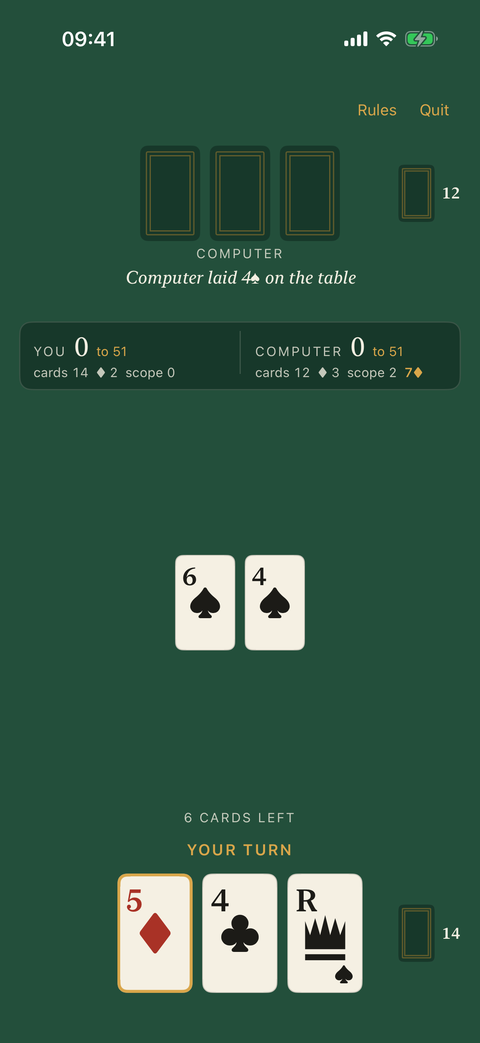
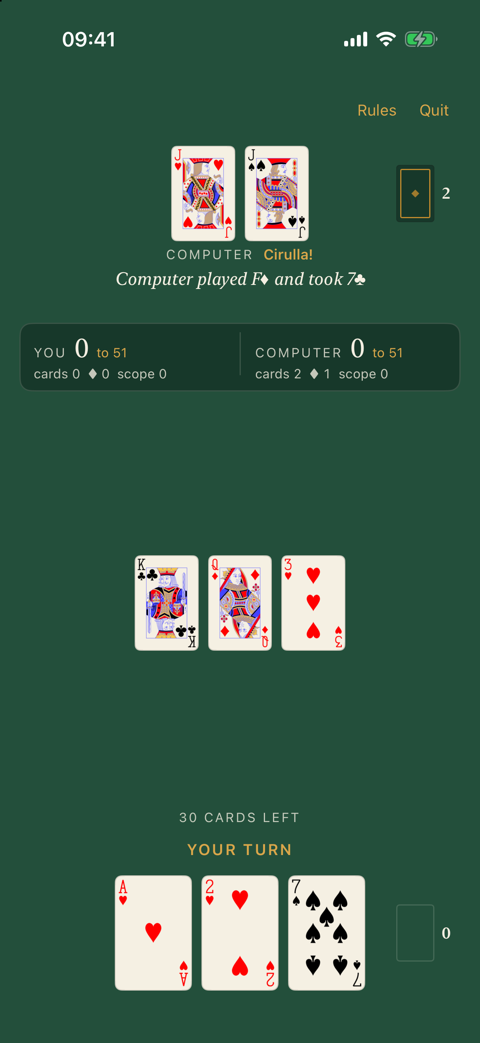
Cirulla: new screenshots and copy for the decks, settings and Italian
Classic (Kennard, CC0) cards throughout; Settings and an Italian table
join the strip, the scopa shot goes. Copy covers the two decks, house
rules, swipe to play, 31/51/101 matches and the Italian translation;
results recounted.

diff --git a/work/cirulla/index.html b/work/cirulla/index.html
@@ -4,7 +4,7 @@
 <meta charset="utf-8">
 <meta name="viewport" content="width=device-width, initial-scale=1">
 <title>Cirulla · Filippo Lamanna</title>
-<meta name="description" content="Cirulla, the Ligurian card game, for iPhone: the regional rules as they are really played, three computer opponents, and 251 tests on the rules engine.">
+<meta name="description" content="Cirulla, the Ligurian card game, for iPhone: the regional rules as they are really played, three computer opponents, in English and Italian, and 336 automated tests.">
 <meta property="og:title" content="Cirulla · Filippo Lamanna">
 <meta property="og:description" content="The Ligurian card game of fifteen, against the computer.">
 <meta property="og:image" content="https://filippolamanna.github.io/assets/img/og.png">
@@ -55,6 +55,7 @@
     <div class="body">
       <p>Cirulla is a Ligurian card game in the Scopa family: you capture table cards that match your card or add up to 15. There are few good ways to play it on a phone, and card apps often get the regional rules wrong.</p>
       <p>This iPhone app plays a full two-player match against the computer at three difficulty levels, following the rules as they are played in Liguria. It keeps the traditional secret declarations (buona and cirulla), shows a full score breakdown after each hand, and saves automatically so you can pick up later.</p>
+      <p>It is in English and Italian. You choose the cards at first start, Ligurian or Classic, and can switch at any time, even mid-game. Settings also hold the four house rules, capture hints, haptics, match length and a choice of two app icons.</p>
     </div>
   </section>
 
@@ -62,12 +63,14 @@
     <h2 class="mono">02 · HOW IT WORKS</h2>
     <div class="body">
       <ul>
-        <li>The game engine is a separate Swift package with no user interface. It encodes every rule: captures by equal value, by sum or by sum to 15, the Ace sweep, the wild seven of hearts (the matta), the dealer's opening bonus and all end-of-hand scoring including primiera.</li>
+        <li>The game engine is a separate Swift package with no user interface. It encodes every rule: captures by equal value, by sum or by sum to 15, the Ace sweep, the seven of hearts (the matta), which takes its value only when you declare with it, the dealer's opening bonus and all end-of-hand scoring including primiera.</li>
         <li>Every match comes from a seed, so any game can be replayed exactly from its seed and list of moves. That made rule bugs reproducible.</li>
         <li>Easy plays randomly but prefers captures. Medium looks one move ahead and weighs scopa chances, the seven of diamonds, diamonds, primiera and the risk of leaving a table the opponent can sweep.</li>
         <li>Hard uses Monte Carlo search: it deals the unseen cards at random many times, plays each option to the end of the hand, and picks the move with the best average result. It only sees what a real player would see.</li>
-        <li>Declarations are never prompted: you triple-tap the table (right half for buona, left for cirulla), the way a real player speaks up. A wrong call gets a small shake and no penalty.</li>
-        <li>Match length (21, 31 or 51 points) was chosen from measured hand scores: a median hand scores 7 points, so 21 lets one big hand decide a match.</li>
+        <li>Declarations are never prompted: you triple-tap the table (right half for buona, left for cirulla), the way a real player speaks up. A wrong call gets a small shake and no penalty. A card is played with a tap or by swiping it up.</li>
+        <li>Four Ligurian house rules are on unless you switch them off: cappotto (all ten diamonds wins the match), scciupon de fotta (a scopa with the last card of the hand does not count), a monte (two or more Aces dealt to the table void the deal) and the dealer's four of a kind.</li>
+        <li>Matches run to the traditional 31, 51 or 101 points.</li>
+        <li>Every word on screen and every spoken VoiceOver line is in English and Italian. A test fails if any text in the app is missing its Italian.</li>
       </ul>
     </div>
   </section>
@@ -77,10 +80,12 @@
     <div class="body">
       <div class="shots shots-strip">
         <figure class="shot"><img src="/assets/img/cirulla/01-home.png" alt="Cirulla home screen with Continue and the three difficulty levels" width="480" height="1043" loading="lazy"><figcaption class="mono">Home</figcaption></figure>
-        <figure class="shot"><img src="/assets/img/cirulla/02-table.png" alt="The table mid-hand, with your three cards and the computer's move described" width="480" height="1043" loading="lazy"><figcaption class="mono">Your turn</figcaption></figure>
-        <figure class="shot"><img src="/assets/img/cirulla/03-scopa.png" alt="The computer sweeps the table: a scopa" width="480" height="1043" loading="lazy"><figcaption class="mono">Scopa</figcaption></figure>
-        <figure class="shot"><img src="/assets/img/cirulla/05-hand-result.png" alt="The end-of-hand score breakdown, category by category" width="480" height="1043" loading="lazy"><figcaption class="mono">Hand over</figcaption></figure>
+        <figure class="shot"><img src="/assets/img/cirulla/02-table.png" alt="The table with Classic cards: the computer has declared a cirulla and taken a card, and it is your turn" width="480" height="1043" loading="lazy"><figcaption class="mono">Your turn</figcaption></figure>
+        <figure class="shot"><img src="/assets/img/cirulla/03-hand-result.png" alt="The end-of-hand score breakdown, category by category" width="480" height="1043" loading="lazy"><figcaption class="mono">Hand over</figcaption></figure>
+        <figure class="shot"><img src="/assets/img/cirulla/04-settings.png" alt="Settings: the Ligurian or Classic cards, the Diamond or Cards app icon, capture hints and haptics" width="480" height="1043" loading="lazy"><figcaption class="mono">Settings</figcaption></figure>
+        <figure class="shot"><img src="/assets/img/cirulla/05-italian.png" alt="The table in Italian: the computer has declared a buona and the turn line reads Tocca a te" width="480" height="1043" loading="lazy"><figcaption class="mono">In Italian</figcaption></figure>
       </div>
+      <p class="shots-credit mono">Classic cards by Adrian Kennard, CC0. The Cards app icon in Settings uses Abjiklam's Chkobba cards, CC BY-SA 4.0.</p>
     </div>
   </section>
 
@@ -88,10 +93,10 @@
     <h2 class="mono">04 · RESULTS</h2>
     <div class="body">
       <div class="stats">
-        <div class="stat"><b>251</b><span>automated tests on the rules engine, because for a traditional game the rules are the product</span></div>
+        <div class="stat"><b>336</b><span>automated tests on the game engine and its packages, because for a traditional game the rules are the product</span></div>
         <div class="stat"><b>3</b><span>AI levels, each checked by thousands of self-played matches to be clearly stronger than the one below</span></div>
         <div class="stat"><b>0</b><span>network calls and no personal data: everything runs on the phone</span></div>
-        <div class="stat"><b>94</b><span>commits, with about 4,500 lines of Swift in the app and packages</span></div>
+        <div class="stat"><b>181</b><span>commits, with about 5,700 lines of Swift in the app and packages</span></div>
       </div>
     </div>
   </section>
@@ -99,7 +104,7 @@
   <section class="chapter">
     <h2 class="mono">05 · HOW IT WAS BUILT</h2>
     <div class="body">
-      <p>I made the product and rule decisions: which regional rules to follow, the French-suited Genoese deck, declarations as unprompted gestures, and the "Osteria" look of felt green, cream cards and brass. The code was written with AI assistance (Claude Code): one model wrote the plans and another carried them out, test-first.</p>
+      <p>I made the product and rule decisions: which regional rules and house rules to follow, the two decks, declarations as unprompted gestures, and the "Osteria" look of felt green, cream cards and brass. The code was written with AI assistance (Claude Code): one model wrote the plans and another carried them out, test-first.</p>
       <p>Playing it on my phone, I caught a rules error the model had written into the spec: the capture obligation applies to the card you play, not your whole hand. The hard part was rule fidelity. Small misreadings change how the game feels, and only real play exposed them.</p>
     </div>
   </section>

diff --git a/assets/css/site.css b/assets/css/site.css
@@ -229,7 +229,8 @@ main { position: relative; padding: var(--frame-h) var(--edge) var(--status-h); 
 .shots-wide { grid-template-columns: 1fr; gap: 28px; }
 .shots-wide img { background: #fff; }
 .shot-narrow { max-width: 520px; }
-.shots-strip { grid-template-columns: repeat(4, minmax(0, 1fr)); gap: 16px; }
+.shots-strip { grid-template-columns: repeat(5, minmax(0, 1fr)); gap: 16px; }
+.chapter .body .shots-credit { margin-top: 16px; color: var(--muted); font-size: 12.5px; }
 .chapter.wide .stats { grid-template-columns: repeat(4, minmax(0, 1fr)); }
 .next { padding: 6vh 0 8vh; }
 .next a { display: grid; gap: 10px; justify-items: start; padding: 28px min(20px, var(--gutter)); margin: 0 calc(-1 * min(20px, var(--gutter))); text-decoration: none; transition: background .2s ease; }
